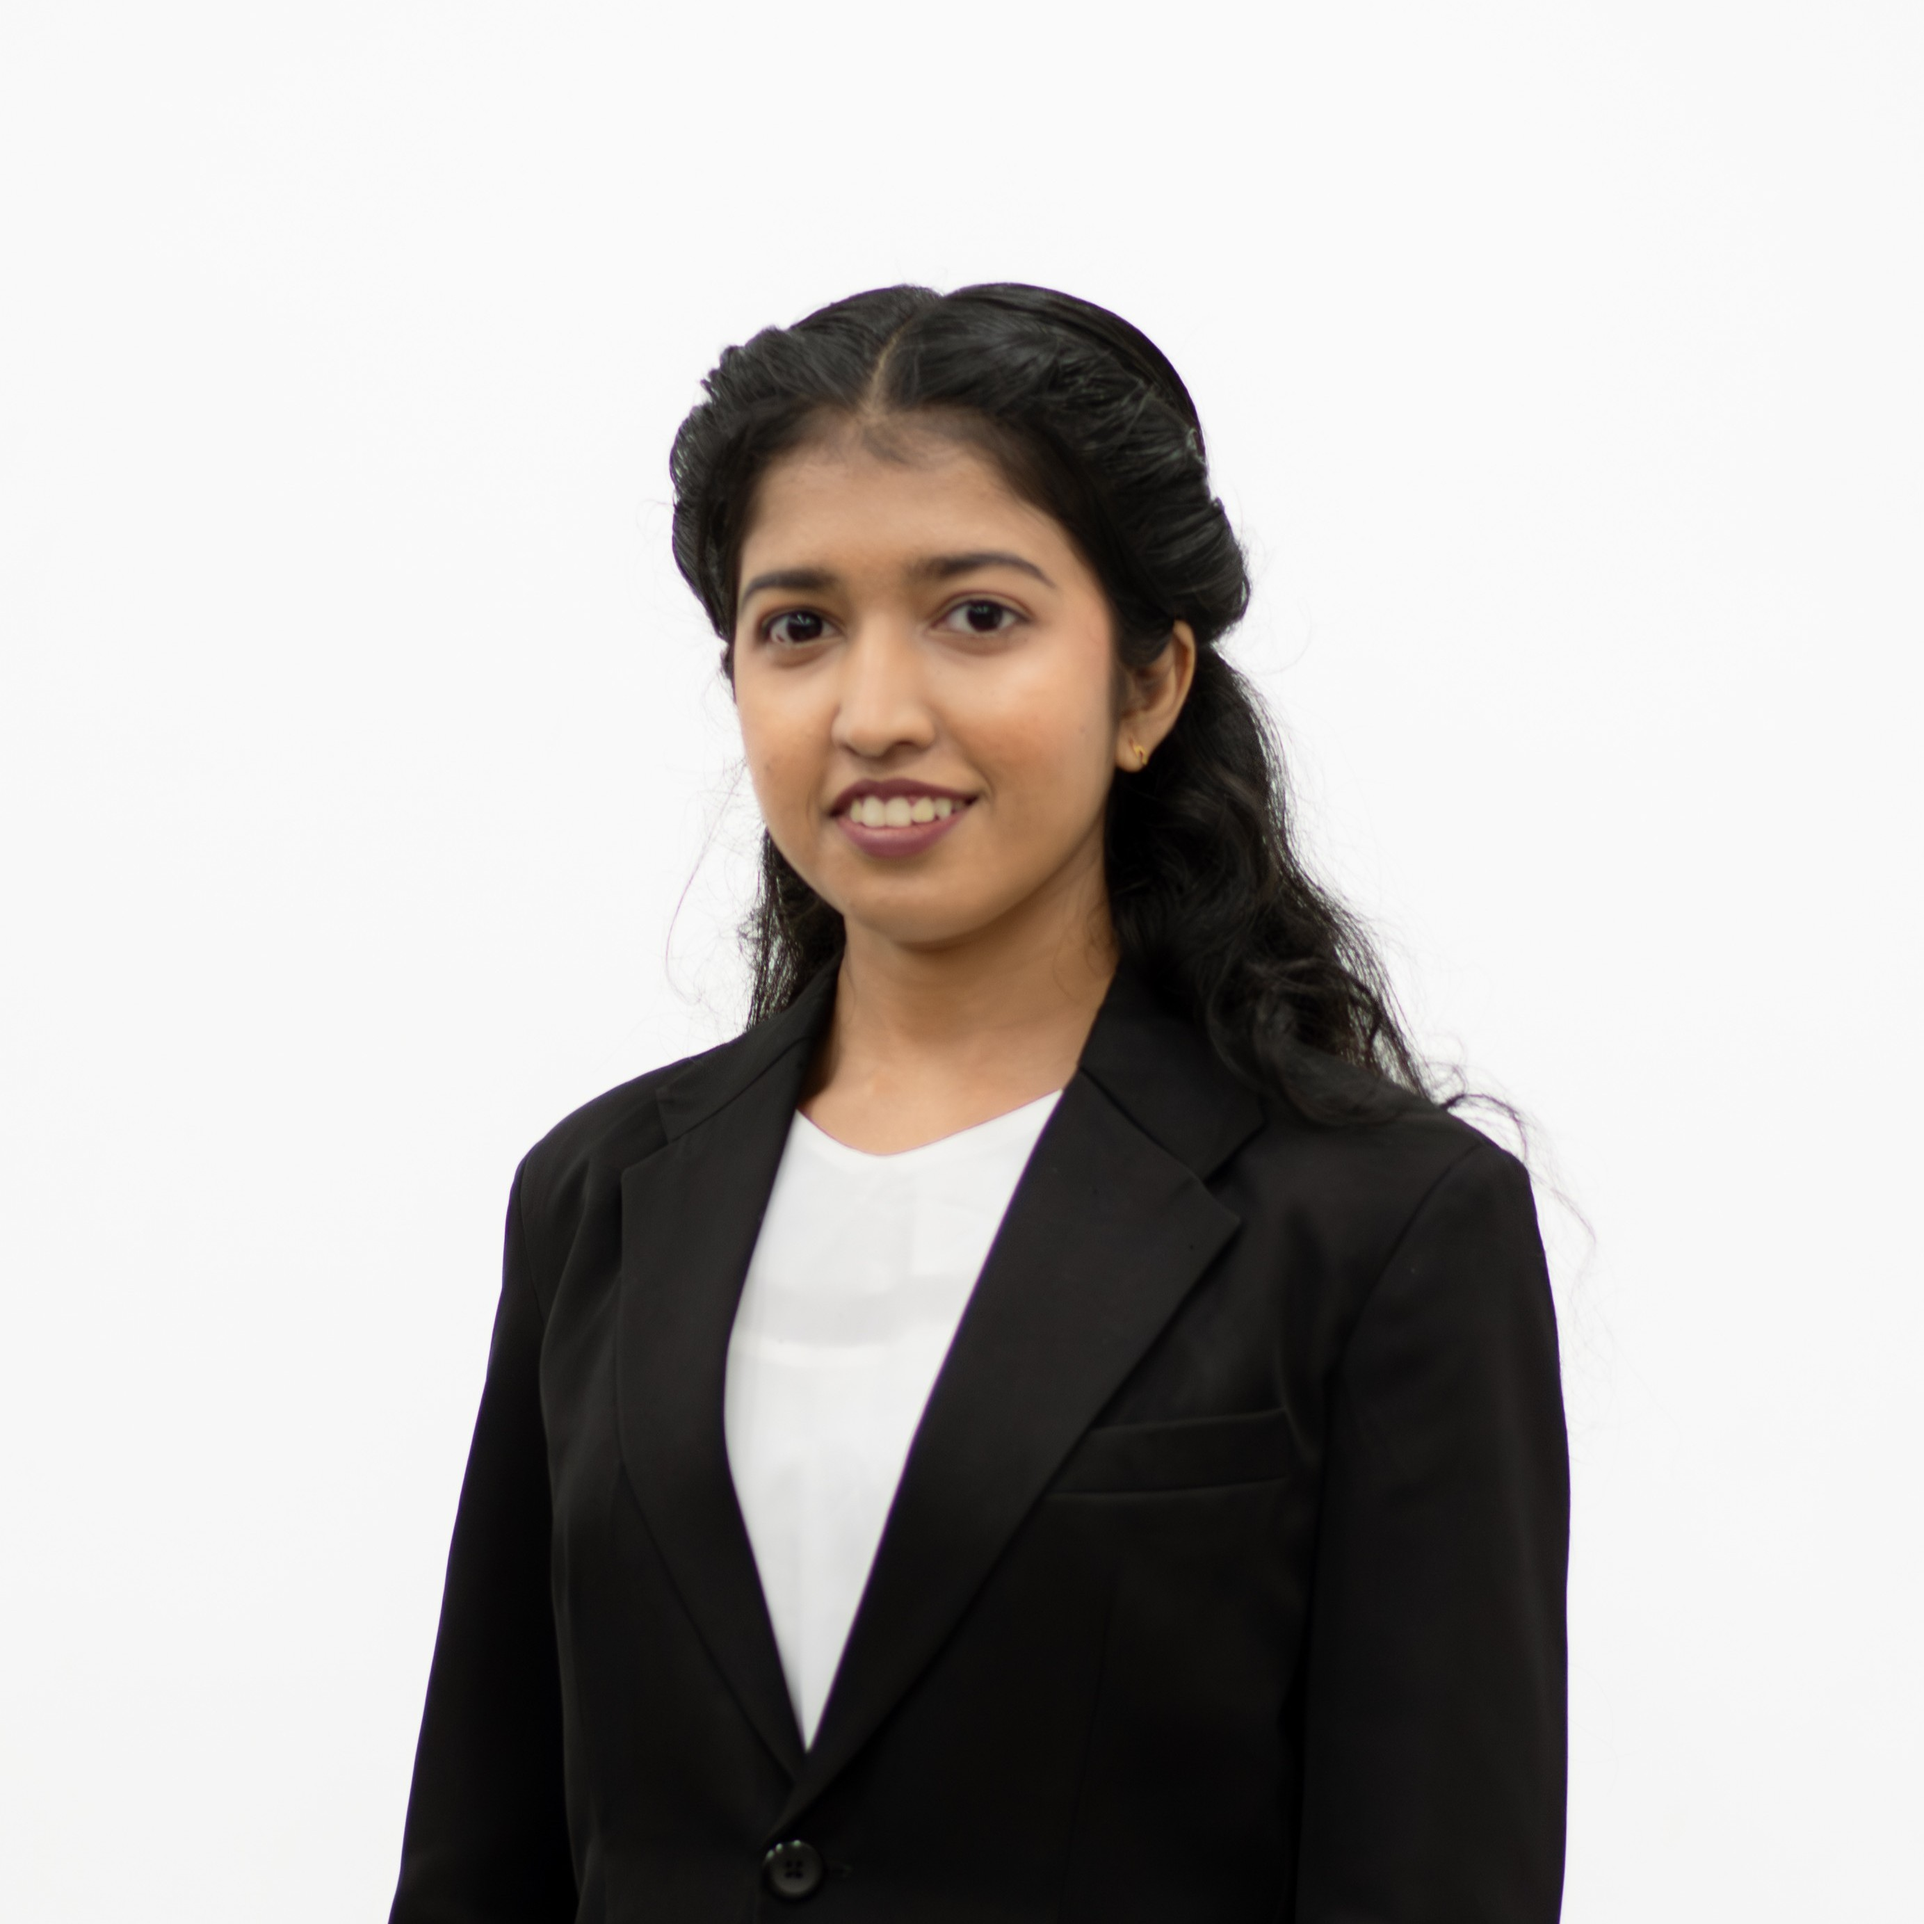
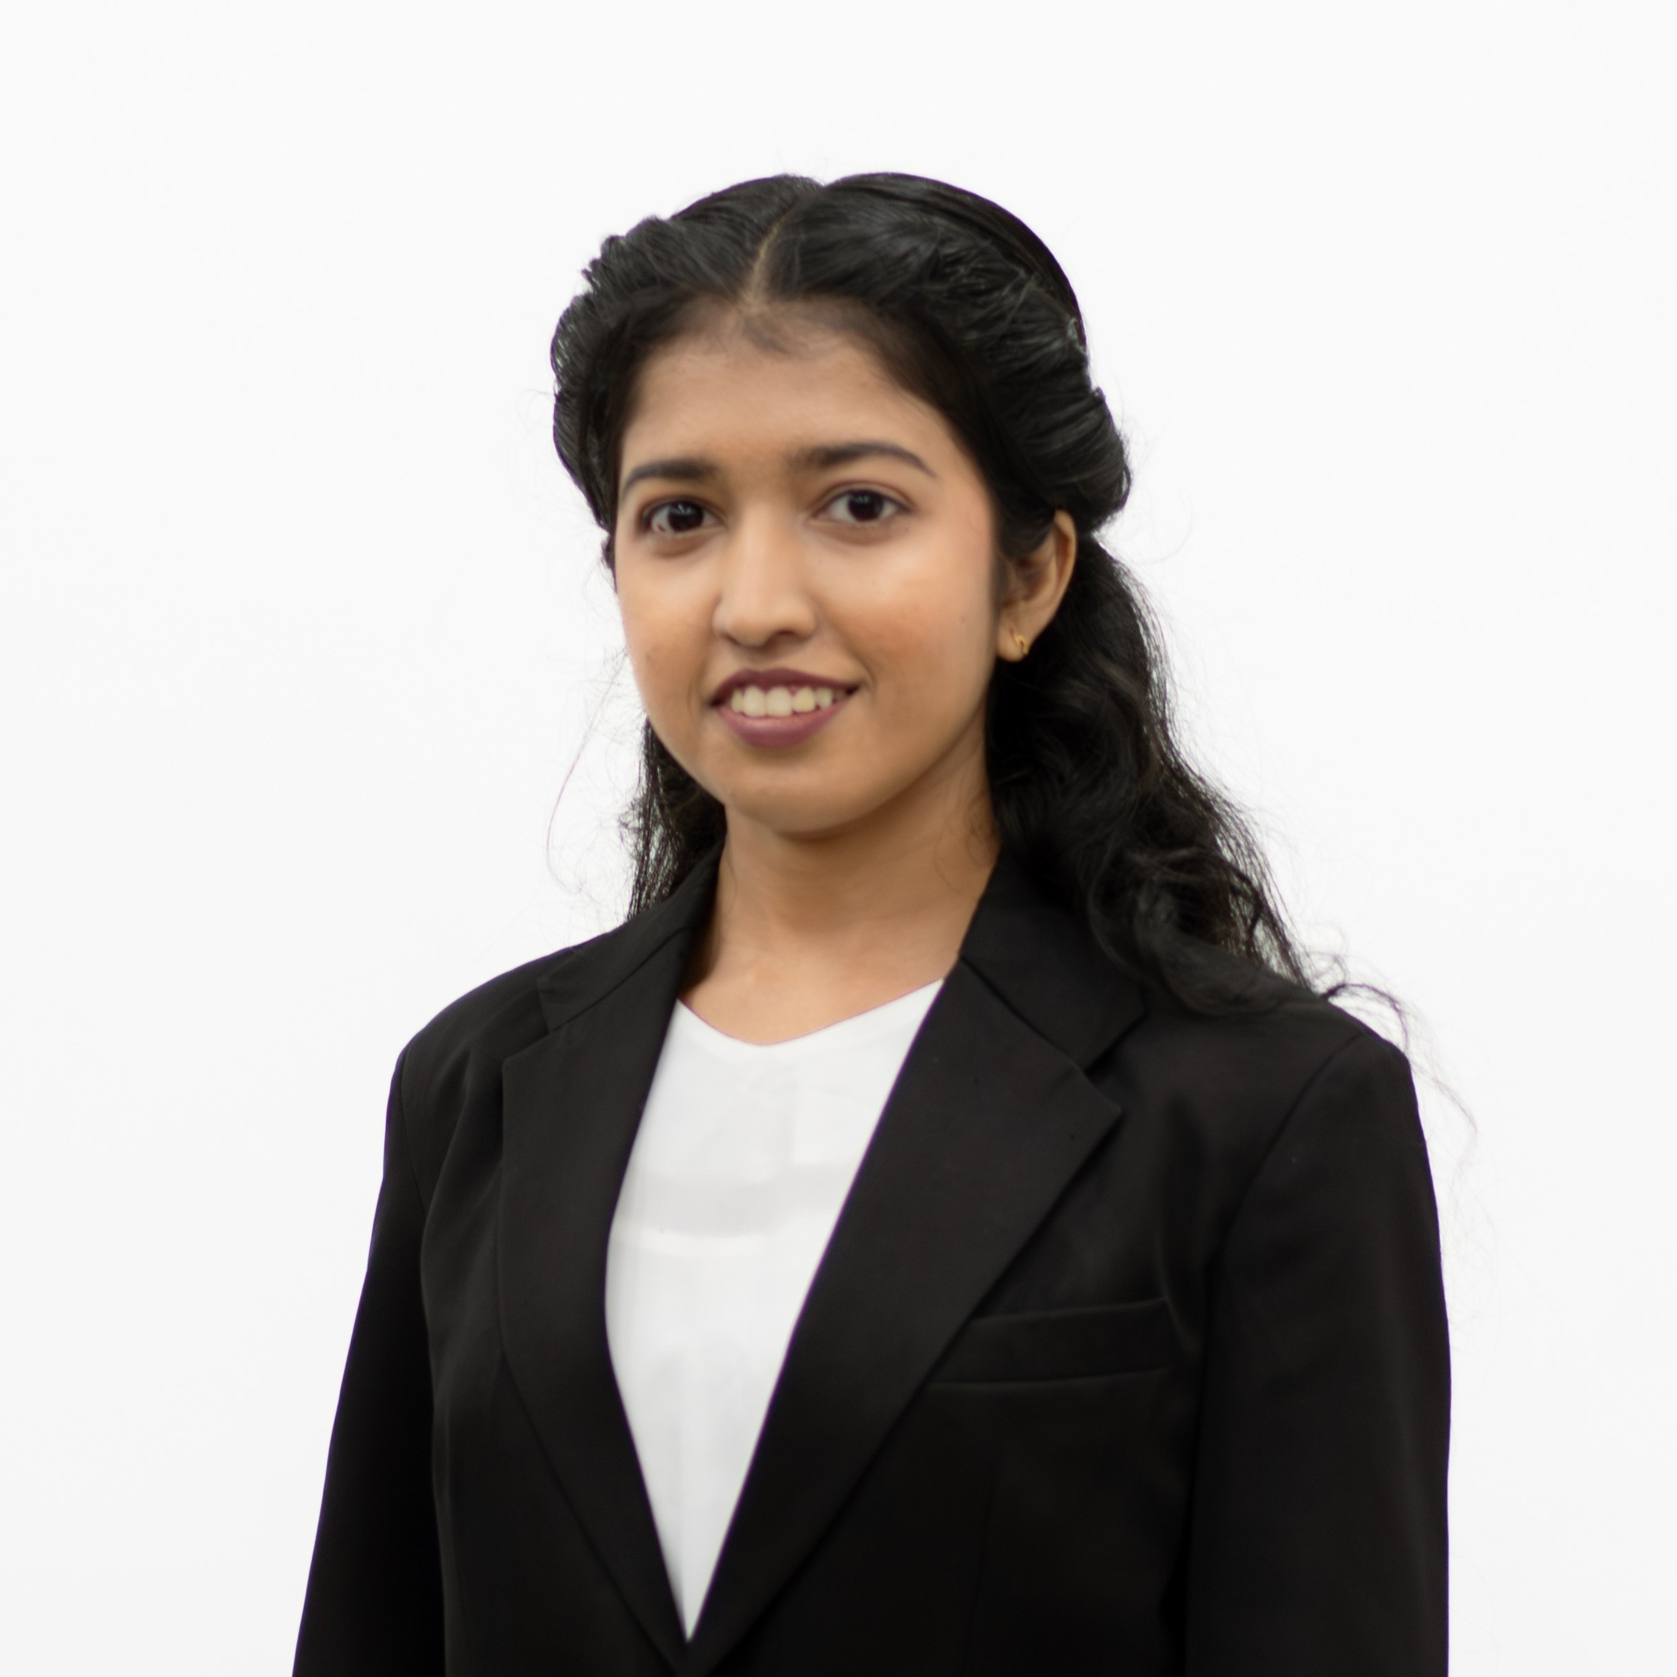
Updated missing picture and updated linkedin urls

diff --git a/src/pages/Commitee.jsx b/src/pages/Commitee.jsx
@@ -21,14 +21,14 @@ const EXECUTIVE_COMMITTEE = [
     name: 'Senethmi Wickramanayake',
     position: 'Vice Chairperson',
     image: ExcomImages.viceChairperson,
-    linkedin: '#'
+    linkedin: 'http://www.linkedin.com/in/senethmi-wickramanayake-800b3029b'
   },
   {
     id: 3,
     name: 'Mandira Polgampala',
     position: 'Secretary',
     image: ExcomImages.secretary,
-    linkedin: 'https://www.linkedin.com/in/mandira-polgampala-969a86281/'
+    linkedin: 'http://linkedin.com/in/mandira-polgampala-969a86281'
   },
   {
     id: 4,
@@ -42,21 +42,21 @@ const EXECUTIVE_COMMITTEE = [
     name: 'Thisula Lewhan',
     position: 'Webmaster',
     image: ExcomImages.Webmaster,
-    linkedin: '#'
+    linkedin: 'https://linkedin.com/in/thisula-lewhan'
   },
   {
     id: 6,
     name: 'Nethuli Dahamna Hettiarachchi',
     position: 'Asst. Secretary',
     image: ExcomImages.asstSecretary,
-    linkedin: '#'
+    linkedin: 'https://www.linkedin.com/in/nethuli-hettiarachchi-a25b86371/'
   },
   {
     id: 7,
     name: 'Zakee Nowfal',
     position: 'Asst. Treasurer',
     image: ExcomImages.asstTreasurer,
-    linkedin: '#'
+    linkedin: 'https://www.linkedin.com/in/mohammed-zakee'
   }
 ];
 
@@ -69,7 +69,7 @@ const CHAPTER_CHAIRS = [
     bgColor: '#E3F2FD',
     iconBg: '#2196F3',
     image: ChairImages.CS,
-    linkedin: '#'
+    linkedin: 'https://www.linkedin.com/in/hesaraperera/'
   },
   {
     id: 2,
@@ -78,7 +78,7 @@ const CHAPTER_CHAIRS = [
     bgColor: '#fdcaffff',
     iconBg: '#c70285ff',
     image: ChairImages.RAS,
-    linkedin: '#'
+    linkedin: 'https://www.linkedin.com/in/achira-karunarathne-401654366/'
   },
   {
     id: 3,
@@ -87,7 +87,7 @@ const CHAPTER_CHAIRS = [
     bgColor: '#F3E5F5',
     iconBg: '#9C27B0',
     image: ChairImages.IAS,
-    linkedin: '#'
+    linkedin: 'http://www.linkedin.com/in/shafkhan-mohammed'
   },
   {
     id: 4,
@@ -105,7 +105,7 @@ const CHAPTER_CHAIRS = [
     bgColor: '#FFF9C4',
     iconBg: '#FBC02D',
     image: ChairImages.PES,
-    linkedin: '#'
+    linkedin: 'https://www.linkedin.com/in/janitha-mayadunna-7720b7314?utm_source=share_via&utm_content=profile&utm_medium=member_ios'
   },
   {
     id: 6,
@@ -114,7 +114,7 @@ const CHAPTER_CHAIRS = [
     bgColor: '#c3ffb4ff',
     iconBg: '#6eff4aff',
     image: ChairImages.EMBS,
-    linkedin: '#'
+    linkedin: 'https://www.linkedin.com/in/dayanita-goonewardanerdane-9a29672ab?utm_source=share_via&utm_content=profile&utm_medium=member_android'
   }
 ];
 
@@ -124,34 +124,34 @@ const TEAMS_DATA = [
     id: 2,
     teamName: 'Public Visibility Team',
     members: [
-      { id: 1, name: 'Sithumya Dilruni', position: 'Team Lead', image: publicityImages.sithumya, linkedin: '#' },
-      { id: 2, name: 'Daham Jayakody', position: 'Team Member', image: publicityImages.daham, linkedin: '#' },
-      { id: 3, name: 'Yasith Tharuka', position: 'Team Member', image: publicityImages.yasith, linkedin: '#' }
+      { id: 1, name: 'Sithumya Dilruni', position: 'Team Lead', image: publicityImages.sithumya, linkedin: 'https://www.linkedin.com/in/sithumya-dilruni-6007652b0?utm_source=share&utm_campaign=share_via&utm_content=profile&utm_medium=ios_app' },
+      { id: 2, name: 'Daham Jayakody', position: 'Team Member', image: publicityImages.daham, linkedin: 'https://www.linkedin.com/in/daham-jayakody?utm_source=share&utm_campaign=share_via&utm_content=profile&utm_medium=ios_app' },
+      { id: 3, name: 'Yasith Tharuka', position: 'Team Member', image: publicityImages.yasith, linkedin: 'https://www.linkedin.com/in/yasith-tharuka' }
     ]
   },
   {
     id: 3,
     teamName: 'Finance Team',
     members: [
-      { id: 1, name: 'Yasiru Binuwara', position: 'Team Member', image: financeImages.yasiru, linkedin: '#' },
-      { id: 2, name: 'Savinath Udawaththa', position: 'Team Member', image: financeImages.savinath, linkedin: '#' }
+      { id: 1, name: 'Yasiru Binuwara', position: 'Team Member', image: financeImages.yasiru, linkedin: 'https://www.linkedin.com/in/yasiru-vitharanage-92a4b3363?utm_source=share&utm_campaign=share_via&utm_content=profile&utm_medium=ios_app' },
+      { id: 2, name: 'Savinath Udawaththa', position: 'Team Member', image: financeImages.savinath, linkedin: 'http://linkedin.com/in/savinath-udawaththa-b87061392' }
     ]
   },
   {
     id: 4,
     teamName: 'Membership Development Team',
     members: [
-      { id: 1, name: 'Thevinu Premathilaka', position: 'Team Lead', image: membershipImages.thevinu, linkedin: '#' },
-      { id: 2, name: 'Lakitha Keshan Gunawantha', position: 'Team Member', image: null, linkedin: '#' }
+      { id: 1, name: 'Thevinu Premathilaka', position: 'Team Lead', image: membershipImages.thevinu, linkedin: 'https://www.linkedin.com/in/thevinu-premathilaka-49583a269?utm_source=share_via&utm_content=profile&utm_medium=member_ios' },
+      { id: 2, name: 'Lakitha Keshan Gunawantha', position: 'Team Member', image: membershipImages.lakitha, linkedin: '#' }
     ]
   },
   {
     id: 5,
     teamName: 'Volunteer Management Team',
     members: [
-      { id: 1, name: 'Thavisha Dewmith', position: 'Team Lead', image: volunteerImages.thavisha, linkedin: '#' },
+      { id: 1, name: 'Thavisha Dewmith', position: 'Team Lead', image: volunteerImages.thavisha, linkedin: 'https://www.linkedin.com/in/thavisha-dewmith-25324b216/' },
       { id: 2, name: 'K.P Yeshan', position: 'Team Member', image: volunteerImages.yeshan, linkedin: '#' },
-      { id: 3, name: 'Sunjai Kajendrajith', position: 'Team Member', image: volunteerImages.sunjai, linkedin: '#' }
+      { id: 3, name: 'Sunjai Kajendrajith', position: 'Team Member', image: volunteerImages.sunjai, linkedin: 'https://www.linkedin.com/in/sunjai-kajendrajith-944a25215?utm_source=share_via&utm_content=profile&utm_medium=member_android' }
     ]
   }
 ];
@@ -193,6 +193,11 @@ function TeamSection({ teamName, members }) {
                 href={member.linkedin}
                 target="_blank"
                 rel="noopener noreferrer"
+                onClick={(e) => {
+                  if (member.linkedin === '#') {
+                    e.preventDefault();
+                  }
+                }}
                 className={`inline-flex items-center justify-center w-9 h-9 rounded-full bg-[#0077B5] text-white transition-all duration-300 hover:bg-[#005885] ${
                   hoveredId === member.id ? 'opacity-100 scale-100' : 'opacity-0 scale-75'
                 }`}
@@ -328,6 +333,11 @@ export default function CommitteePage() {
                       href={member.linkedin}
                       target="_blank"
                       rel="noopener noreferrer"
+                      onClick={(e) => {
+                        if (member.linkedin === '#') {
+                          e.preventDefault();
+                        }
+                      }}
                       className={`inline-flex items-center justify-center w-9 h-9 rounded-full bg-[#0077B5] text-white transition-all duration-300 hover:bg-[#005885] ${
                         hoveredExecId === member.id ? 'opacity-100 scale-100' : 'opacity-0 scale-75'
                       }`}
@@ -385,6 +395,11 @@ export default function CommitteePage() {
                       href={chair.linkedin}
                       target="_blank"
                       rel="noopener noreferrer"
+                      onClick={(e) => {
+                        if (chair.linkedin === '#') {
+                          e.preventDefault();
+                        }
+                      }}
                       className={`inline-flex items-center justify-center w-9 h-9 rounded-full bg-[#0077B5] text-white transition-all duration-300 hover:bg-[#005885] ${
                         hoveredChairId === chair.id ? 'opacity-100 scale-100' : 'opacity-0 scale-75'
                       }`}

diff --git a/src/assets/images/Teams/MembershipDevelop/index.js b/src/assets/images/Teams/MembershipDevelop/index.js
@@ -1,7 +1,9 @@
 import thevinu from "./WhatsApp Image 2026-03-15 at 9.56.21 PM - Thevinu Premathilaka.jpeg";
+import lakitha from "./Lakitha Keshan Gunawantha.jpeg";
 
 const membershipImages = {
-  thevinu
+  thevinu,
+  lakitha
 };
 
 export default membershipImages;
